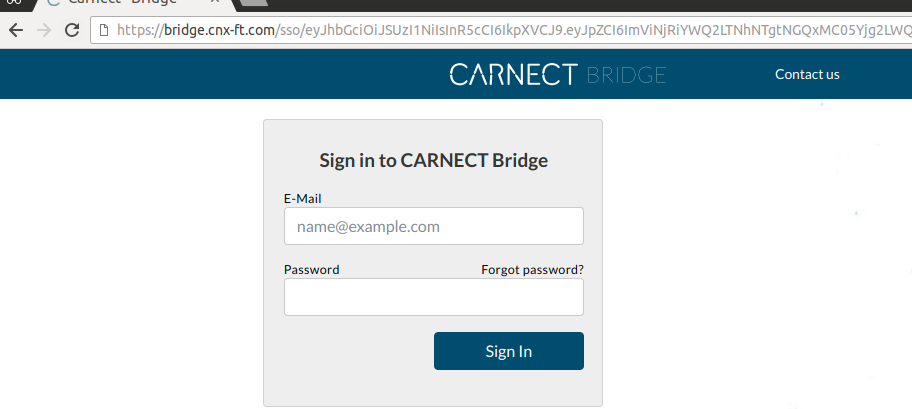
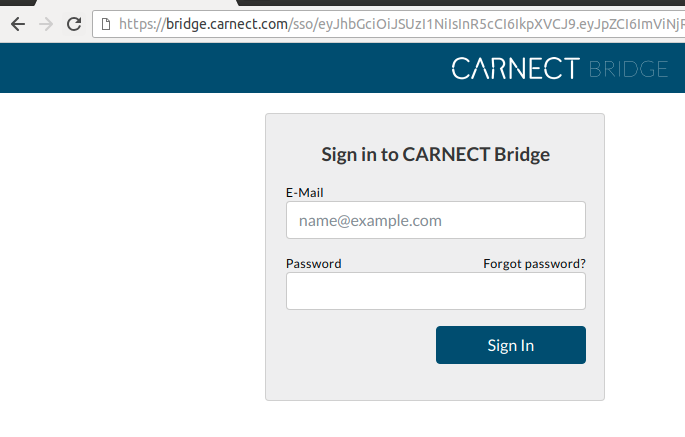
updates documentation with bridge url

diff --git a/auth-api/README.md b/auth-api/README.md
@@ -228,11 +228,9 @@ request.get(options, (err, request, body) => {
 
 The token can be used to directly login a user to [Bridge](https://bridge.carnect.com), to do so, simply replace the token in the following Bridge URL:
 
-`https://bridge.cnx-ft.com/sso/YOUR_TOKEN`
+`https://bridge.carnect.com/sso/YOUR_TOKEN`
 
-Upon navigating to the URL within the browser the user would automatically be logged in.
-
-This feature potentially allows a client to host bridge within their own subsystems, provided they have users set-up to use bridge.
+Upon navigating to the URL within the browser the user would automatically be logged in. This feature potentially allows a client to host bridge within their own subsystems, provided they have users set-up to use bridge.
 
 ![sso-example](sso.png?raw=true) 
 
